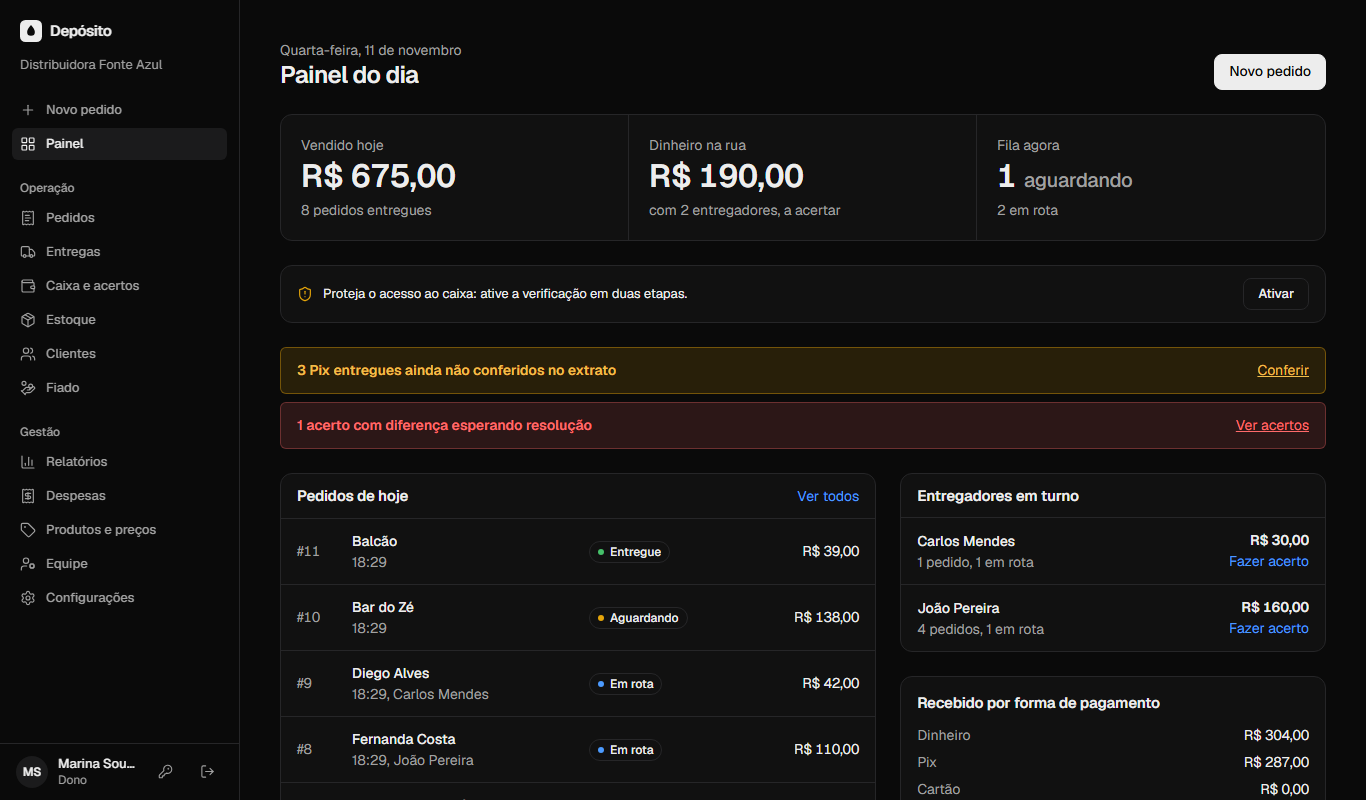
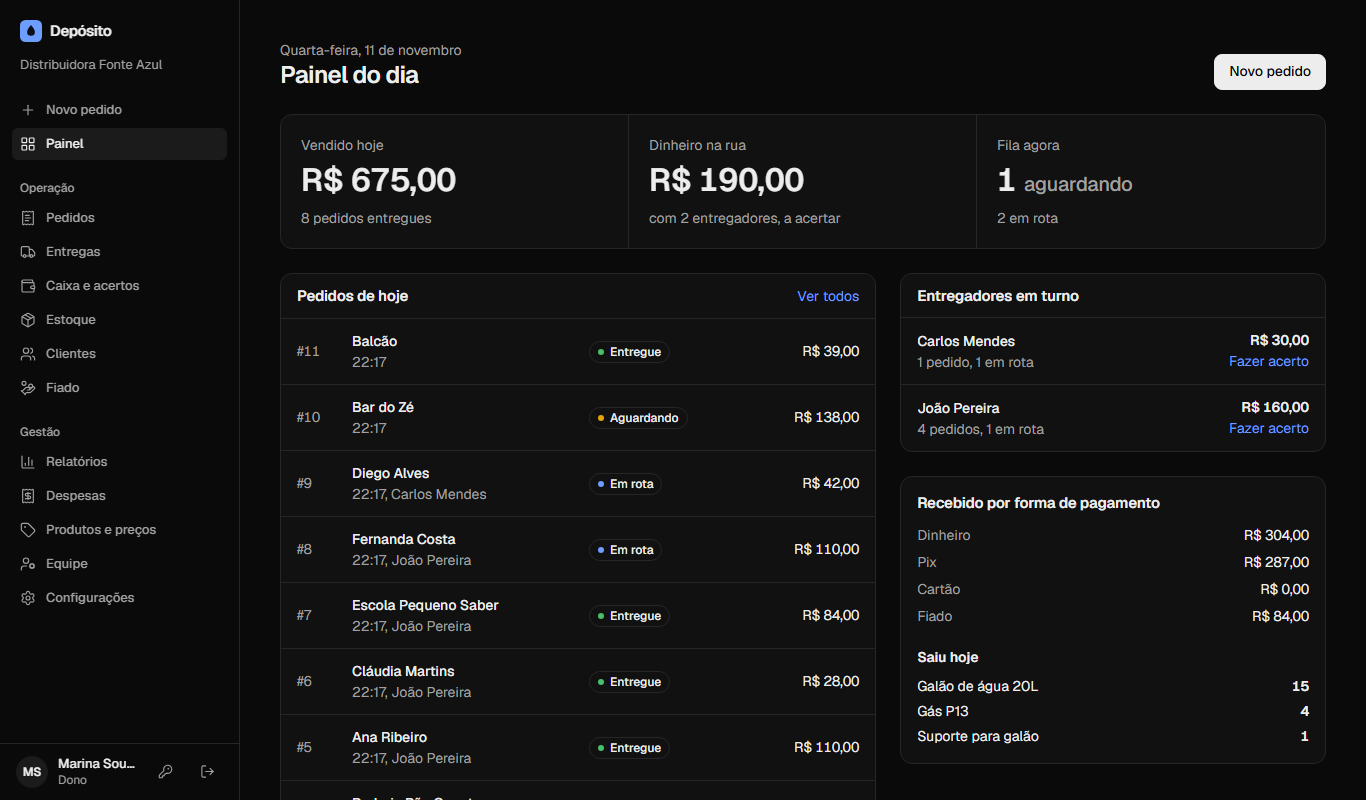
Página inicial: recursos como prancha, prévia do link e captura limpa
- Recursos ganham número de figura (FIG. 01 · ACERTO...), chamadas técnicas
  sobre as telas do entregador e do portal (em mãos, abre o mapa, só as dele,
  sua loja, 1 toque) e os quatro itens de baixo numerados como na prancha;
- imagem de prévia do link (WhatsApp, redes) no estilo da prancha, gerada
  pelo Next; APP_URL define o endereço público usado nas prévias;
- captura do painel no topo sem o aviso de duas etapas e sem faixas de
  alerta, já com o logo azul (também no README).

diff --git a/src/app/inicio/page.tsx b/src/app/inicio/page.tsx
@@ -182,6 +182,7 @@ export default function Inicio() {
 
             <div className="mt-12 grid gap-4 lg:grid-cols-6">
               <article className="reveal panel flex flex-col p-6 sm:p-8 lg:col-span-3">
+                <p className="fig">FIG. 01 · ACERTO</p>
                 <h3 className="text-[17px] font-semibold tracking-tight">Acerto que fecha no centavo</h3>
                 <p className="mt-2 text-muted">
                   O sistema sabe quanto cada entregador deve ter em mãos. Pagamento misto, repasse no meio do dia e gasto
@@ -208,6 +209,7 @@ export default function Inicio() {
               </article>
 
               <article className="reveal panel flex flex-col p-6 sm:p-8 lg:col-span-3">
+                <p className="fig">FIG. 02 · ESTOQUE</p>
                 <h3 className="text-[17px] font-semibold tracking-tight">Estoque de retornáveis</h3>
                 <p className="mt-2 text-muted">
                   Cheios, vazios e avariados, na loja e na rua. Saldo é a soma dos lançamentos; erro se corrige com estorno,
@@ -241,6 +243,7 @@ export default function Inicio() {
               <article className="reveal panel overflow-hidden lg:col-span-4">
                 <div className="grid h-full sm:grid-cols-2">
                   <div className="p-6 sm:p-8">
+                    <p className="fig">FIG. 03 · ENTREGADOR</p>
                     <h3 className="text-[17px] font-semibold tracking-tight">No celular do entregador</h3>
                     <p className="mt-2 text-muted">
                       Só as entregas dele, quanto deve ter em dinheiro e um botão grande pra confirmar, com 5 segundos pra
@@ -248,37 +251,49 @@ export default function Inicio() {
                     </p>
                   </div>
                   <div className="relative min-h-72 bg-subtle">
-                    <Image
-                      src={entregador}
-                      alt="Tela do entregador no celular"
-                      sizes="(min-width: 640px) 260px, 70vw"
-                      className="float absolute top-6 left-1/2 w-[62%] max-w-[240px] -translate-x-1/2 rounded-[1.75rem] border-[6px] border-fg/90 shadow-xl"
-                    />
+                    <div className="float absolute top-6 left-1/2 w-[62%] max-w-[240px] -translate-x-1/2">
+                      <Image
+                        src={entregador}
+                        alt="Tela do entregador no celular"
+                        sizes="(min-width: 640px) 260px, 70vw"
+                        className="w-full rounded-[1.75rem] border-[6px] border-fg/90 shadow-xl"
+                      />
+                      <Chamada x={14} y={24} lado="esq">Em mãos</Chamada>
+                      <Chamada x={10} y={49} lado="esq" largo>Abre o mapa</Chamada>
+                      <Chamada x={70} y={38.5} lado="dir">Só as dele</Chamada>
+                    </div>
                   </div>
                 </div>
               </article>
 
               <article className="reveal panel overflow-hidden lg:col-span-2">
                 <div className="p-6 sm:p-8">
+                  <p className="fig">FIG. 04 · PORTAL</p>
                   <h3 className="text-[17px] font-semibold tracking-tight">Pedido pelo link da loja</h3>
                   <p className="mt-2 text-muted">O cliente pede sozinho e já recebe o QR do Pix.</p>
                 </div>
                 <div className="relative h-72 bg-subtle">
-                  <Image
-                    src={portal}
-                    alt="Pedido pelo site, no celular do cliente"
-                    sizes="240px"
-                    style={atraso(-2500)}
-                    className="float absolute top-6 left-1/2 w-[62%] max-w-[220px] -translate-x-1/2 rounded-[1.75rem] border-[6px] border-fg/90 shadow-xl"
-                  />
+                  <div style={atraso(-2500)} className="float absolute top-6 left-1/2 w-[62%] max-w-[220px] -translate-x-1/2">
+                    <Image
+                      src={portal}
+                      alt="Pedido pelo site, no celular do cliente"
+                      sizes="240px"
+                      className="w-full rounded-[1.75rem] border-[6px] border-fg/90 shadow-xl"
+                    />
+                    <Chamada x={72} y={8.5} lado="dir">Sua loja</Chamada>
+                    <Chamada x={88} y={26} lado="dir">1 toque</Chamada>
+                  </div>
                 </div>
               </article>
             </div>
 
             <ul className="mt-16 grid gap-x-8 gap-y-10 sm:grid-cols-2 lg:grid-cols-4">
-              {extras.map(({ icon: Icon, t, d }) => (
-                <li key={t}>
-                  <Icon className="size-5 text-muted" aria-hidden="true" />
+              {extras.map(({ icon: Icon, t, d }, i) => (
+                <li key={t} className="border-t border-line pt-5">
+                  <span className="flex items-center justify-between">
+                    <Icon className="size-5 text-muted" aria-hidden="true" />
+                    <span className="fig">{String(i + 1).padStart(2, "0")}</span>
+                  </span>
                   <h3 className="mt-4 font-semibold">{t}</h3>
                   <p className="mt-1 text-muted">{d}</p>
                 </li>
@@ -313,5 +328,19 @@ export default function Inicio() {
         </div>
       </footer>
     </div>
+  );
+}
+
+/**
+ * Chamada técnica sobre uma captura: ponto no alvo (x/y em % da tela), traço e o texto do lado escolhido.
+ * `largo`: só aparece a partir do tablet, quando sobra margem ao lado do celular.
+ */
+function Chamada({ x, y, lado, largo = false, children }: { x: number; y: number; lado: "esq" | "dir"; largo?: boolean; children: string }) {
+  return (
+    <span aria-hidden="true" data-lado={lado} className={`chamada-tec ${largo ? "max-sm:hidden" : ""}`} style={{ left: `${x}%`, top: `${y}%` }}>
+      <span className="chamada-tec-texto">{children}</span>
+      <span className="chamada-tec-traco" />
+      <span className="chamada-tec-ponto" />
+    </span>
   );
 }

diff --git a/src/app/inicio/opengraph-image.tsx b/src/app/inicio/opengraph-image.tsx
@@ -1,0 +1,77 @@
+import { ImageResponse } from "next/og";
+
+// imagem que aparece quando o link do site é colado no WhatsApp, LinkedIn etc.: a mesma prancha do topo
+export const alt = "Depósito: gestão para revendas de água e gás";
+export const size = { width: 1200, height: 630 };
+export const contentType = "image/png";
+
+const papel = "#f4f3ee";
+const tinta = "#1747c6";
+const texto = "#171717";
+
+function Registro({ style }: { style: React.CSSProperties }) {
+  return (
+    <svg width="28" height="28" viewBox="0 0 24 24" style={{ position: "absolute", ...style }}>
+      <circle cx="12" cy="12" r="6" fill="none" stroke={tinta} strokeWidth="1.4" />
+      <path d="M12 0 V24 M0 12 H24" stroke={tinta} strokeWidth="1.4" />
+    </svg>
+  );
+}
+
+export default function Image() {
+  const traco = { fill: "none", stroke: tinta, strokeWidth: 2.2, strokeLinecap: "round", strokeLinejoin: "round" } as const;
+  const mono = { fontFamily: "monospace", fontSize: 16, letterSpacing: 2, color: tinta, textTransform: "uppercase" } as const;
+  return new ImageResponse(
+    (
+      <div style={{ width: "100%", height: "100%", display: "flex", position: "relative", background: papel, padding: "72px 80px" }}>
+        <Registro style={{ top: 28, left: 28 }} />
+        <Registro style={{ top: 28, right: 28 }} />
+        <Registro style={{ bottom: 28, left: 28 }} />
+        <Registro style={{ bottom: 28, right: 28 }} />
+
+        <div style={{ display: "flex", flexDirection: "column", justifyContent: "space-between", width: 700 }}>
+          <div style={{ display: "flex", alignItems: "center", gap: 14 }}>
+            <svg width="44" height="44" viewBox="0 0 24 24">
+              <rect width="24" height="24" rx="6" fill={tinta} />
+              <path d="M12 5.5c2.7 3.2 4.2 5.5 4.2 7.6a4.2 4.2 0 0 1-8.4 0c0-2.1 1.5-4.4 4.2-7.6z" fill="#ffffff" />
+            </svg>
+            <span style={{ fontSize: 30, fontWeight: 700, color: texto, letterSpacing: -0.5 }}>Depósito</span>
+          </div>
+          <div style={{ display: "flex", flexDirection: "column" }}>
+            <span style={{ fontSize: 76, fontWeight: 700, color: texto, lineHeight: 1.02, letterSpacing: -3 }}>Do pedido ao acerto, sem conta de cabeça.</span>
+            <span style={{ marginTop: 22, fontSize: 26, color: "#555", lineHeight: 1.35 }}>
+              Pedidos, entregas, botijões cheios e vazios e o dinheiro de cada entregador.
+            </span>
+          </div>
+          <div style={{ display: "flex", border: `1.5px solid ${tinta}`, alignSelf: "flex-start" }}>
+            <span style={{ ...mono, padding: "8px 14px", borderRight: `1.5px solid ${tinta}` }}>Prancha 01</span>
+            <span style={{ ...mono, padding: "8px 14px" }}>Vasilhames retornáveis</span>
+          </div>
+        </div>
+
+        {/* botijão P13 em traço, com cota de altura e a etiqueta de entrega */}
+        <svg width="330" height="470" viewBox="0 0 320 420" style={{ position: "absolute", right: 70, top: 80 }}>
+          <path {...traco} d="M108 112 V64 C108 52 116 46 128 46 H192 C204 46 212 52 212 64 V112" />
+          <rect {...traco} x="120" y="58" width="30" height="13" rx="6.5" />
+          <rect {...traco} x="170" y="58" width="30" height="13" rx="6.5" />
+          <rect {...traco} x="150" y="84" width="20" height="24" rx="2" />
+          <rect {...traco} x="145" y="77" width="30" height="8" rx="2" />
+          <path {...traco} d="M80 146 C80 116 120 108 160 108 C200 108 240 116 240 146 V312 C240 336 206 346 160 346 C114 346 80 336 80 312 Z" />
+          <path {...traco} d="M80 228 C120 236 200 236 240 228" />
+          <path {...traco} d="M100 340 V372 H220 V340" />
+          <rect {...traco} x="116" y="354" width="20" height="9" rx="4.5" />
+          <rect {...traco} x="184" y="354" width="20" height="9" rx="4.5" />
+          <rect {...traco} x="110" y="170" width="100" height="40" rx="3" strokeDasharray="5 5" strokeWidth="1.4" />
+          <path {...traco} strokeWidth="1.4" d="M268 46 V372 M263 46 H273 M263 372 H273" />
+          <path {...traco} d="M135 64 C128 86 116 102 106 118" strokeWidth="1.6" />
+          <path d="M64 118 H162 L172 128 V170 H64 Z" fill={papel} stroke={tinta} strokeWidth="2" strokeLinejoin="round" />
+        </svg>
+        <div style={{ position: "absolute", right: 216, top: 222, display: "flex", flexDirection: "column", ...mono, fontSize: 14, letterSpacing: 1.5, lineHeight: 1.35 }}>
+          <span style={{ fontWeight: 700 }}>#128</span>
+          <span>Ana Ribeiro</span>
+        </div>
+      </div>
+    ),
+    size,
+  );
+}

diff --git a/src/app/globals.css b/src/app/globals.css
@@ -1008,3 +1008,77 @@ body[data-confirmando] .deliver-btn {
     animation-play-state: paused;
   }
 }
+
+/* recursos na linguagem da prancha: número de figura e chamadas técnicas sobre as capturas */
+.fig {
+  display: block;
+  margin-bottom: 0.75rem;
+  color: var(--marca);
+  font-family: var(--font-mono);
+  font-size: 10.5px;
+  letter-spacing: 0.14em;
+  text-transform: uppercase;
+}
+li > span > .fig {
+  margin: 0;
+}
+.chamada-tec {
+  position: absolute;
+  display: flex;
+  align-items: center;
+  translate: -100% -50%;
+  white-space: nowrap;
+  pointer-events: none;
+}
+.chamada-tec[data-lado="dir"] {
+  flex-direction: row-reverse;
+  translate: 0 -50%;
+}
+.chamada-tec-texto {
+  padding: 2px 6px;
+  border: 1px solid var(--marca);
+  border-radius: 3px;
+  background: var(--papel);
+  color: var(--marca);
+  font-family: var(--font-mono);
+  font-size: 9.5px;
+  letter-spacing: 0.12em;
+  text-transform: uppercase;
+}
+.chamada-tec-traco {
+  width: 22px;
+  height: 1px;
+  background: var(--marca);
+  transform-origin: right;
+}
+.chamada-tec[data-lado="dir"] .chamada-tec-traco {
+  transform-origin: left;
+}
+.chamada-tec-ponto {
+  width: 7px;
+  height: 7px;
+  border-radius: 50%;
+  background: var(--marca);
+  box-shadow: 0 0 0 3px color-mix(in srgb, var(--marca) 25%, transparent);
+}
+/* aparecem quando o cartão entra na tela: o traço cresce do ponto até o texto */
+@supports (animation-timeline: view()) {
+  .chamada-tec > * {
+    animation: fade-in linear both;
+    animation-timeline: view();
+    animation-range: entry 40% cover 35%;
+  }
+  .chamada-tec > .chamada-tec-traco {
+    animation-name: traco-cresce;
+  }
+}
+@keyframes traco-cresce {
+  from {
+    scale: 0 1;
+  }
+}
+@media (prefers-reduced-motion: reduce) {
+  .chamada-tec > * {
+    animation: none !important;
+  }
+}

diff --git a/src/app/layout.tsx b/src/app/layout.tsx
@@ -10,6 +10,7 @@ const geist = Geist({ variable: "--font-geist", subsets: ["latin"] });
 const geistMono = Geist_Mono({ variable: "--font-geist-mono", subsets: ["latin"] });
 
 export const metadata: Metadata = {
+  metadataBase: new URL(process.env.APP_URL || "http://localhost:3000"),
   title: { default: "Depósito", template: "%s | Depósito" },
   description: "Gestão de pedidos, entregas, estoque de retornáveis e acerto de caixa para distribuidoras de água e gás.",
   applicationName: "Depósito",

diff --git a/src/app/inicio/twitter-image.tsx b/src/app/inicio/twitter-image.tsx
@@ -1,0 +1,1 @@
+export { default, alt, size, contentType } from "./opengraph-image";

diff --git a/DEPLOY.md b/DEPLOY.md
@@ -72,6 +72,7 @@ Para a demonstração, crie um segundo banco, `gestao-demo-db`. Assim os dados f
 | Variável | Valor |
 | --- | --- |
 | `DATABASE_URL` | URL interna do `gestao-db`, com o usuário dono do banco (o padrão `postgres` do Coolify serve: a migração cria o papel `app_tenant` usado pelo isolamento) |
+| `APP_URL` | `https://app.meudominio.com.br` (prévia do link no WhatsApp e nas redes) |
 | `ADMIN_EMAIL` | seu e-mail da Solace |
 | `ADMIN_PASSWORD` | senha forte, só para o primeiro acesso |
 | `ALERT_TELEGRAM_BOT_TOKEN` e `ALERT_TELEGRAM_CHAT_ID` | opcionais, veja Monitoramento |
